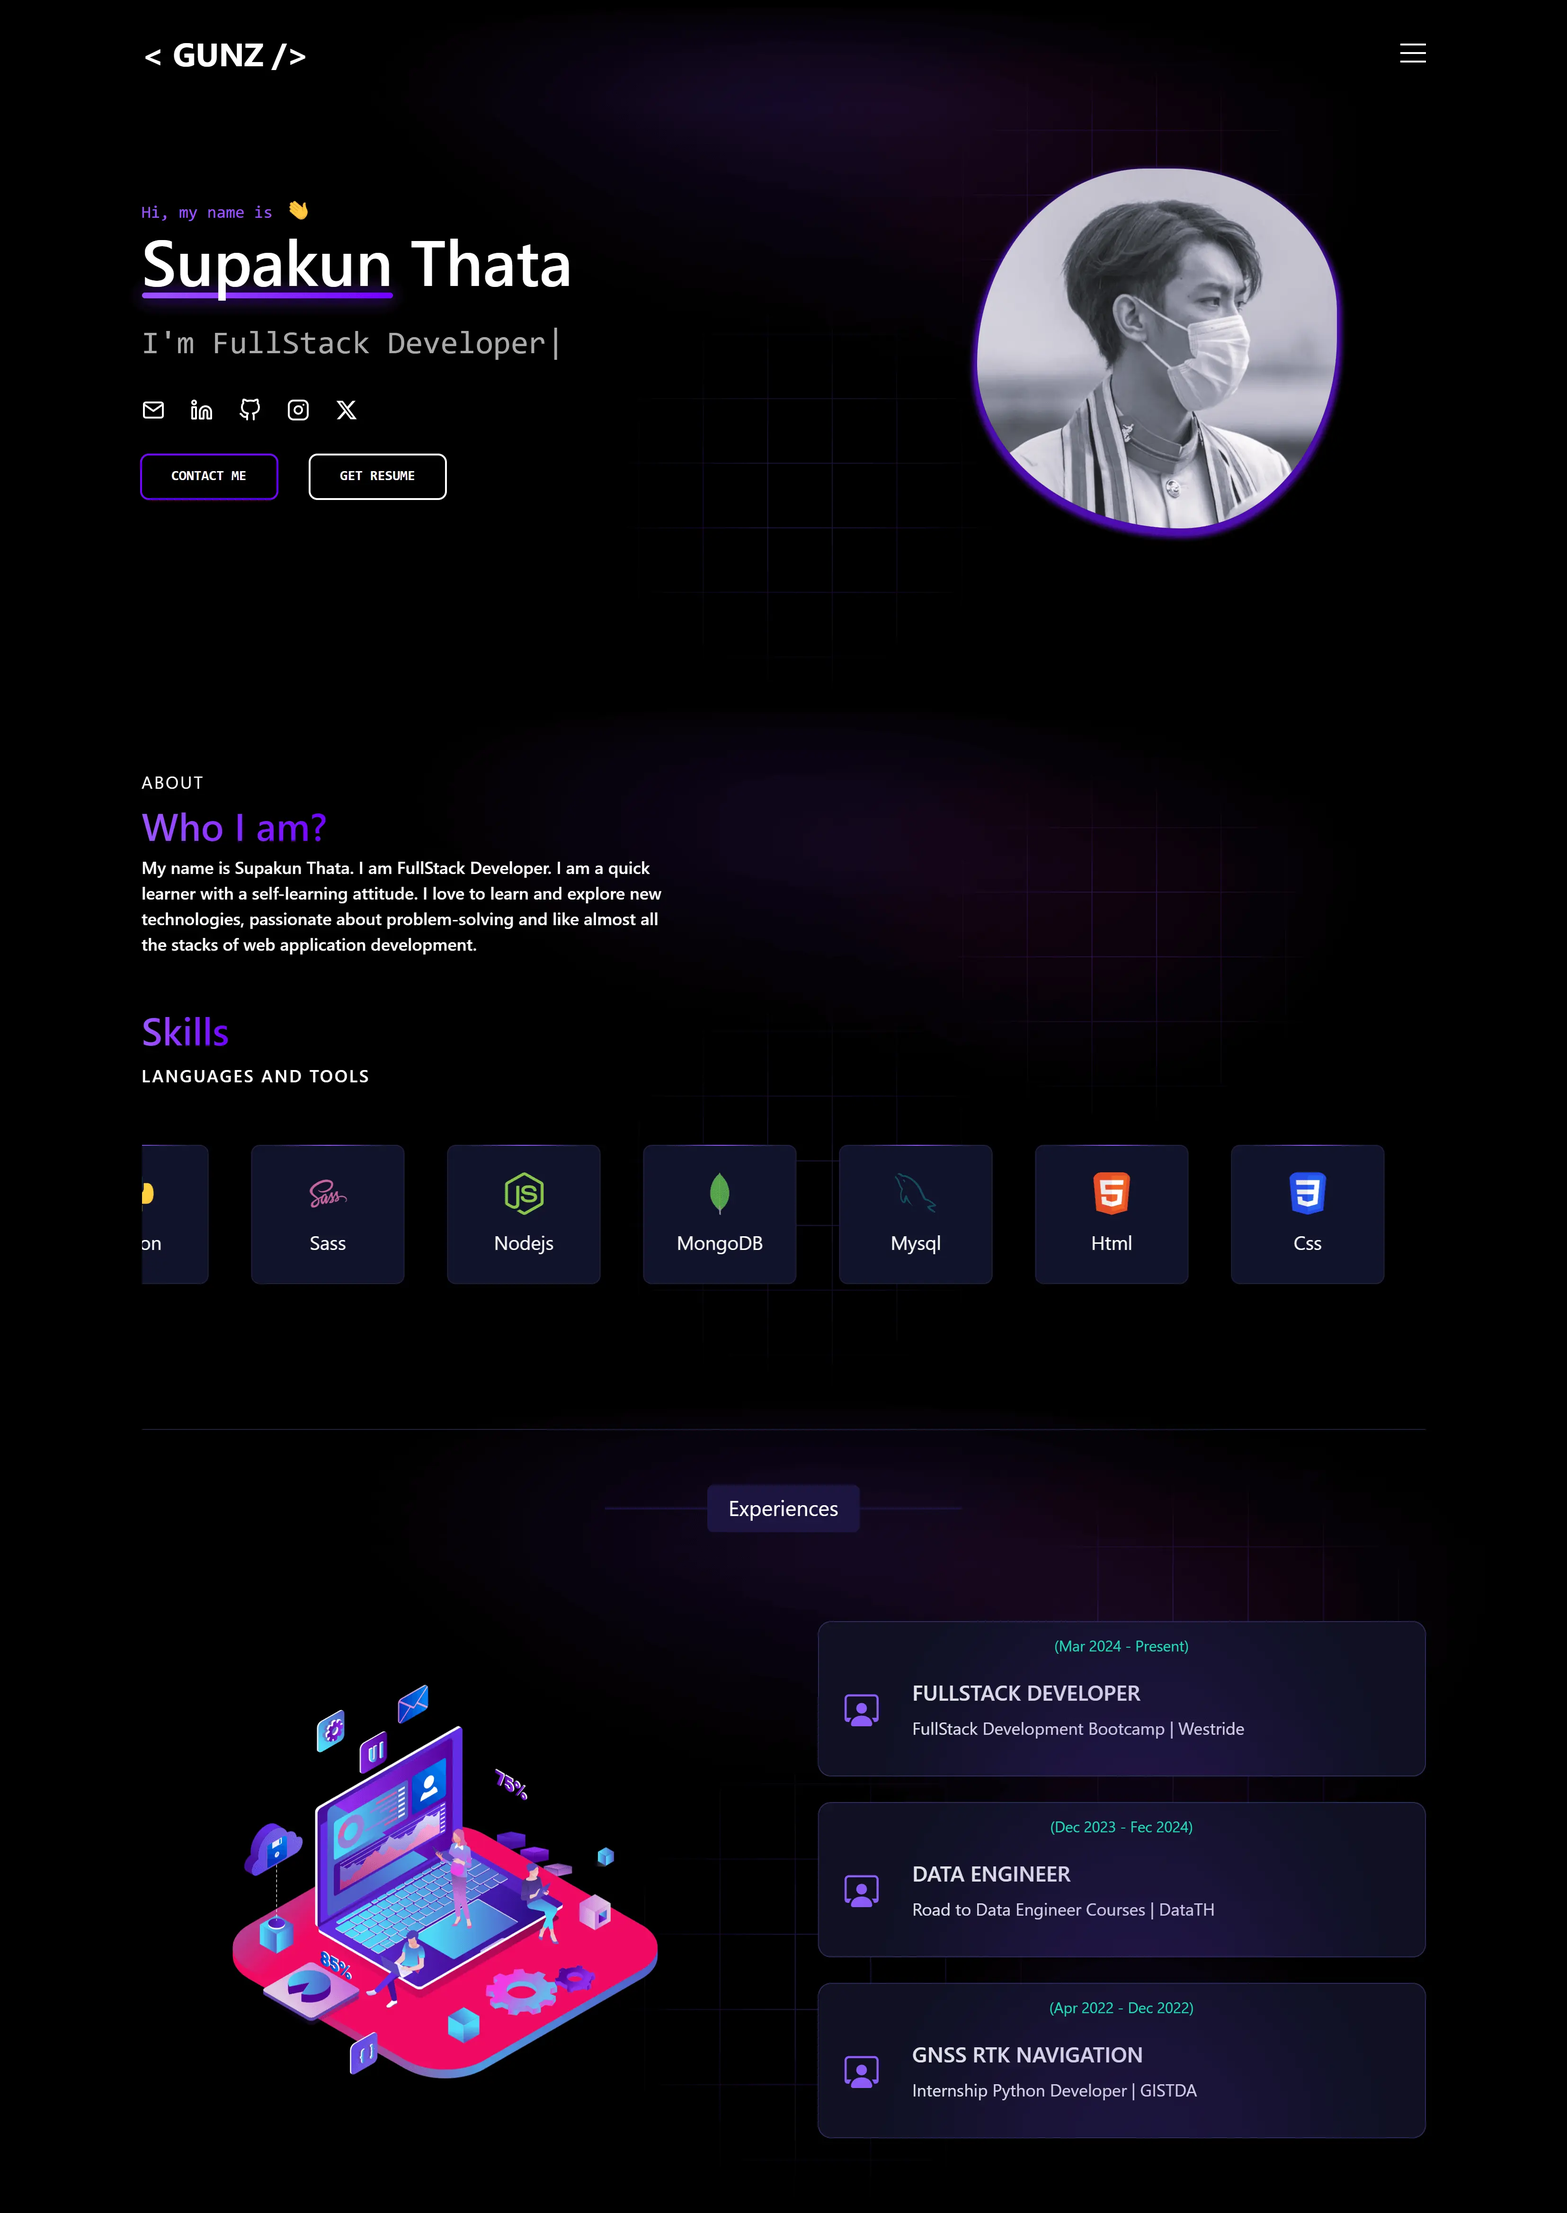
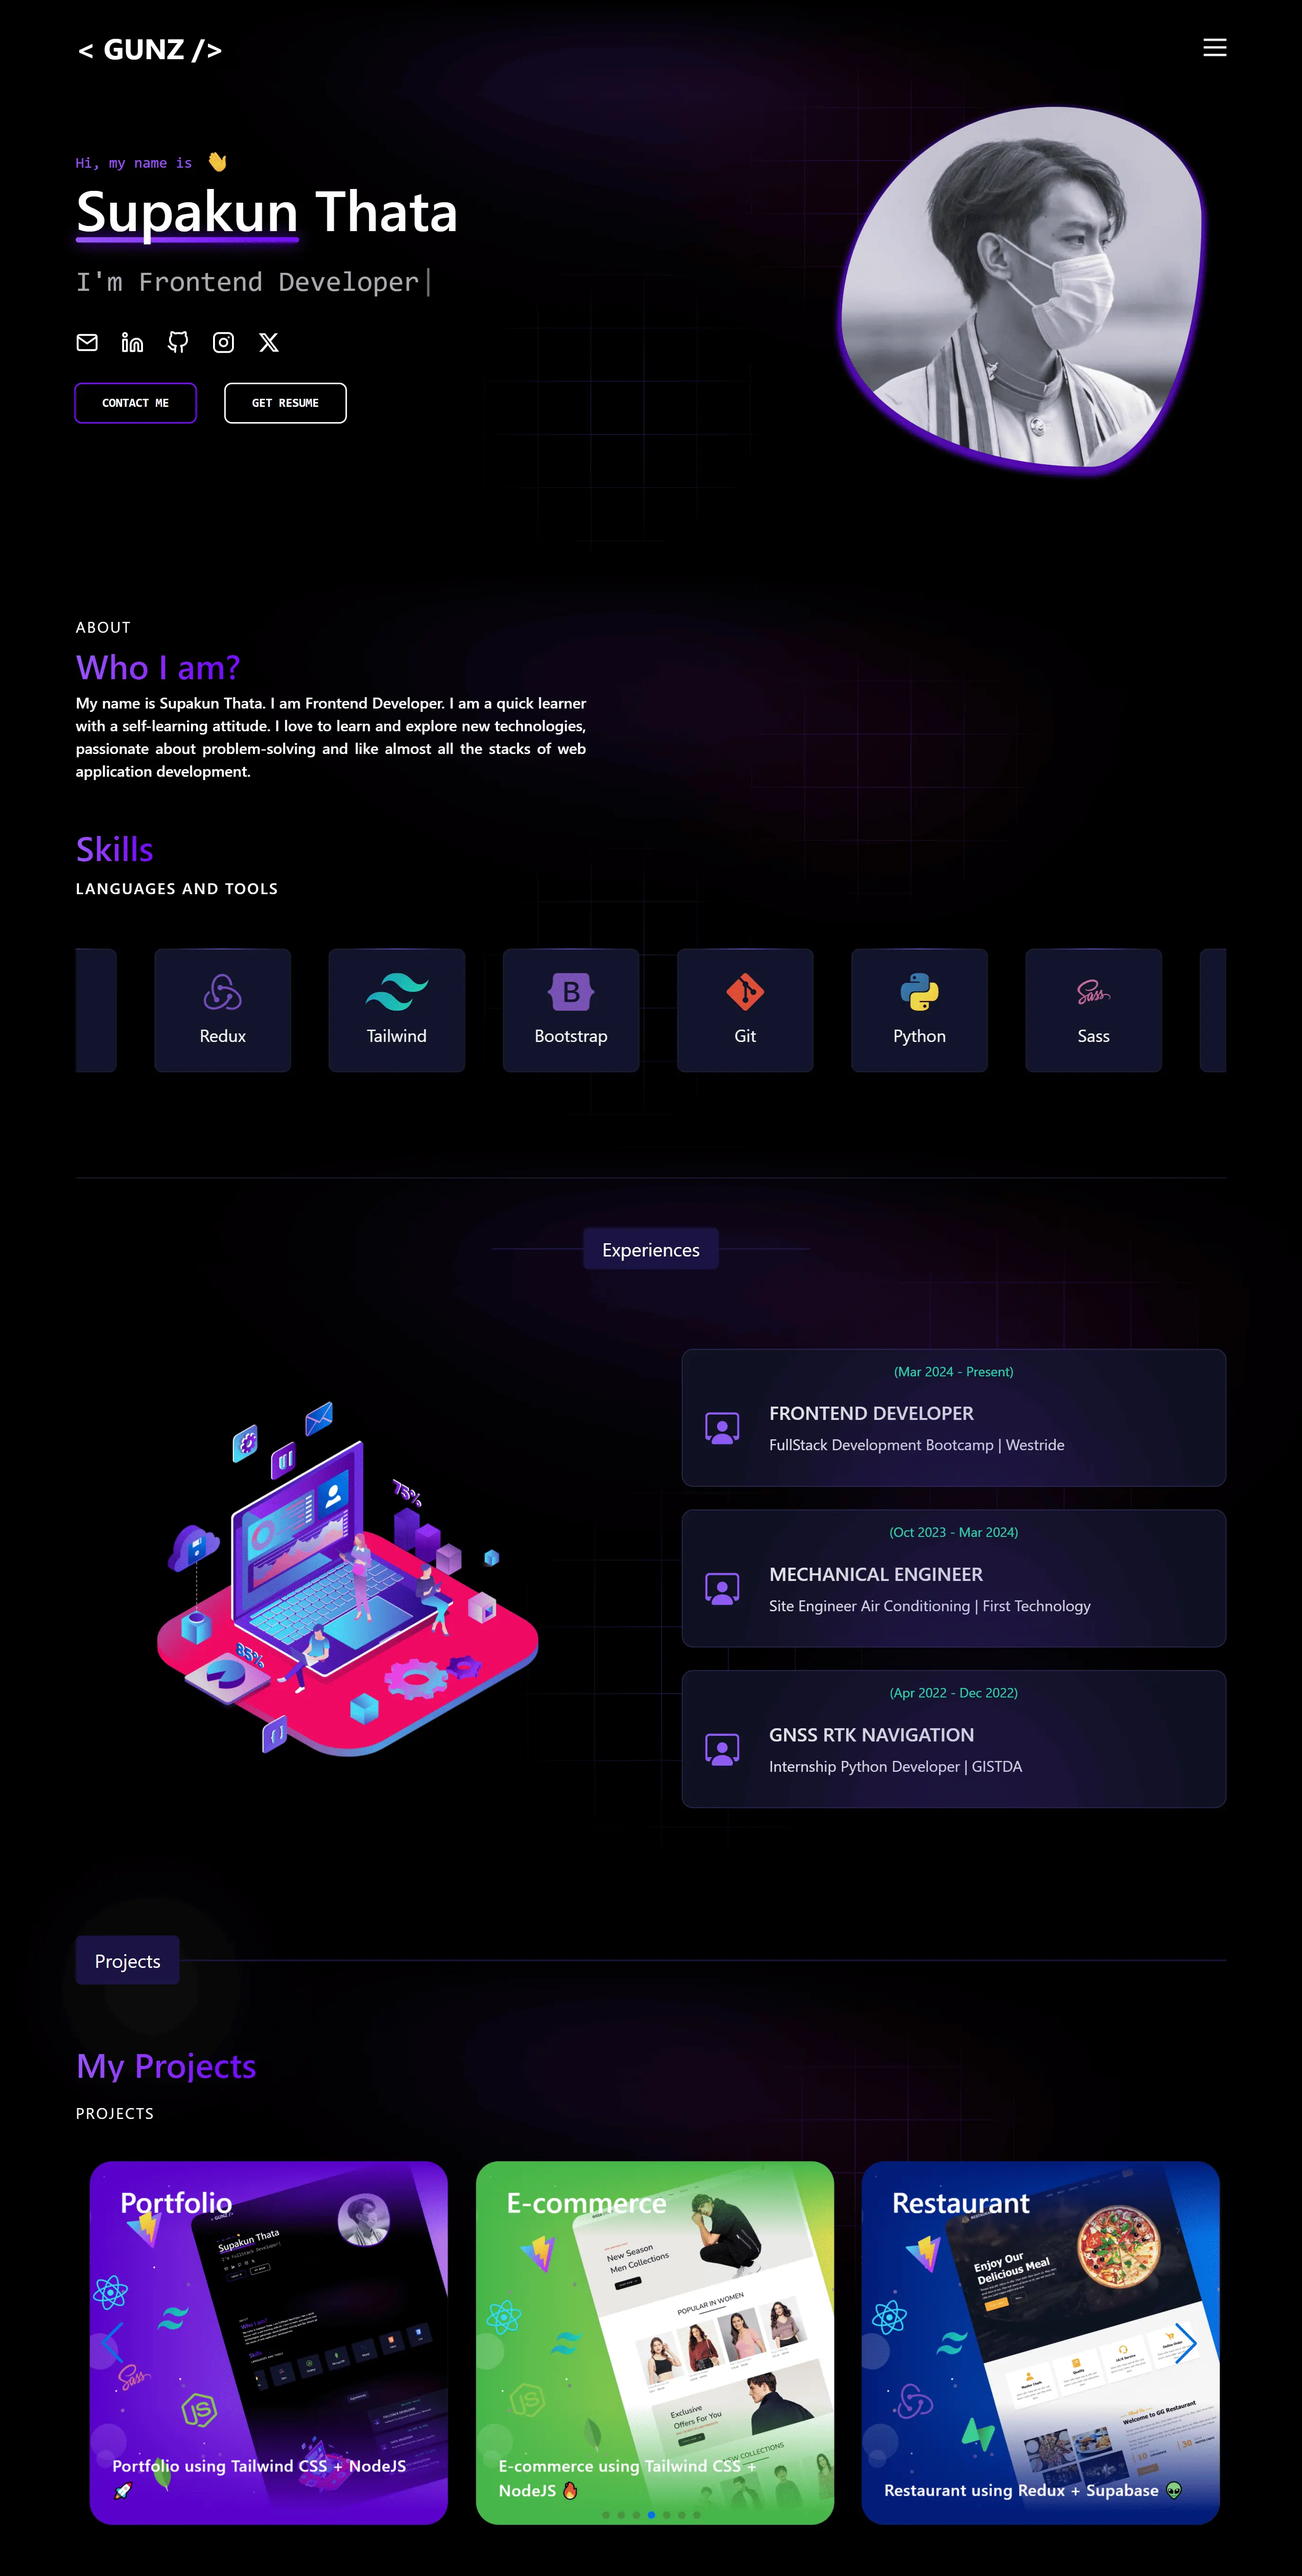
Add Project

diff --git a/constants.jsx b/constants.jsx
@@ -15,6 +15,7 @@ import nodejs from './public/skills/nodejs.svg'
 import redux from './public/skills/redux.svg'
 import supabase from './public/skills/supabase.svg'
 import nextjs from './public/skills/nextJS.webp'
+import typescript from './public/skills/typescript.svg'
 
 
 
@@ -106,6 +107,10 @@ export const SKILLS = [
     img: javascript
   },
   {
+    tools: "Typescript",
+    img: typescript
+  },
+  {
     tools: "React",
     img: react
   },
@@ -164,9 +169,9 @@ export const experiences = [
   },
   {
     id: 2,
-    title: "Data Engineer",
-    company: "Road to Data Engineer Courses | DataTH",
-    duration: "(Dec 2023 - Fec 2024)"
+    title: "Mechanical Engineer",
+    company: "Site Engineer Air Conditioning | First Technology",
+    duration: "(Oct 2023 - Mar 2024)"
   },
   {
     id: 3,
@@ -209,7 +214,7 @@ export const PROJECTS = [
     image: "/projects/ecommerce.webp",
     blurImage: "/projects/ecommerce.webp",
     description: "E-commerce using Tailwind CSS + NodeJS 🔥",
-    gradient: ["#15be4a", "#f9f047"],
+    gradient: ["#45B649", "#DCE35B"],
     url: "https://ecommercr.netlify.app/",
     tech: ["vitejs", "react", "tailwind", "nodejs", "mongoDB2"],
   },
@@ -219,16 +224,26 @@ export const PROJECTS = [
     blurImage: "/projects/restaurant.webp",
     description:
       "Restaurant using Redux + Supabase 👽",
-    gradient: ["#000066", "#6699FF"],
+    gradient: ["#021B79", "#0575E6"],
     url: "https://restaurantz.netlify.app/",
     tech: ["vitejs", "react", "tailwind", "redux", "supabase"],
+  },
+  {
+    name: "Gunglz Chatbot",
+    image: "/projects/chatbot.webp",
+    blurImage: "/projects/chatbot.webp",
+    description:
+      "AI Chatbot using NextJs + Tailwind CSS 🤖",
+    gradient: ["#536976", "#BBD2C5"],
+    url: "https://gunglz-chatbot.vercel.app/",
+    tech: ["vitejs", "nextJS", "tailwind"],
   },
   {
     name: "Gnss-Rtk",
     image: "/projects/gnss-rtk.webp",
     blurImage: "/projects/gnss-rtk.webp",
     description: "GNSS-RTK Navigation App using Python 🏆",
-    gradient: ["#142D46", "#2E4964"],
+    gradient: ["#00416A", "#E4E5E6"],
     url: "https://github.com/SupakunZ/GNSS_RTK",
     tech: ["python", "numpy"],
   }
